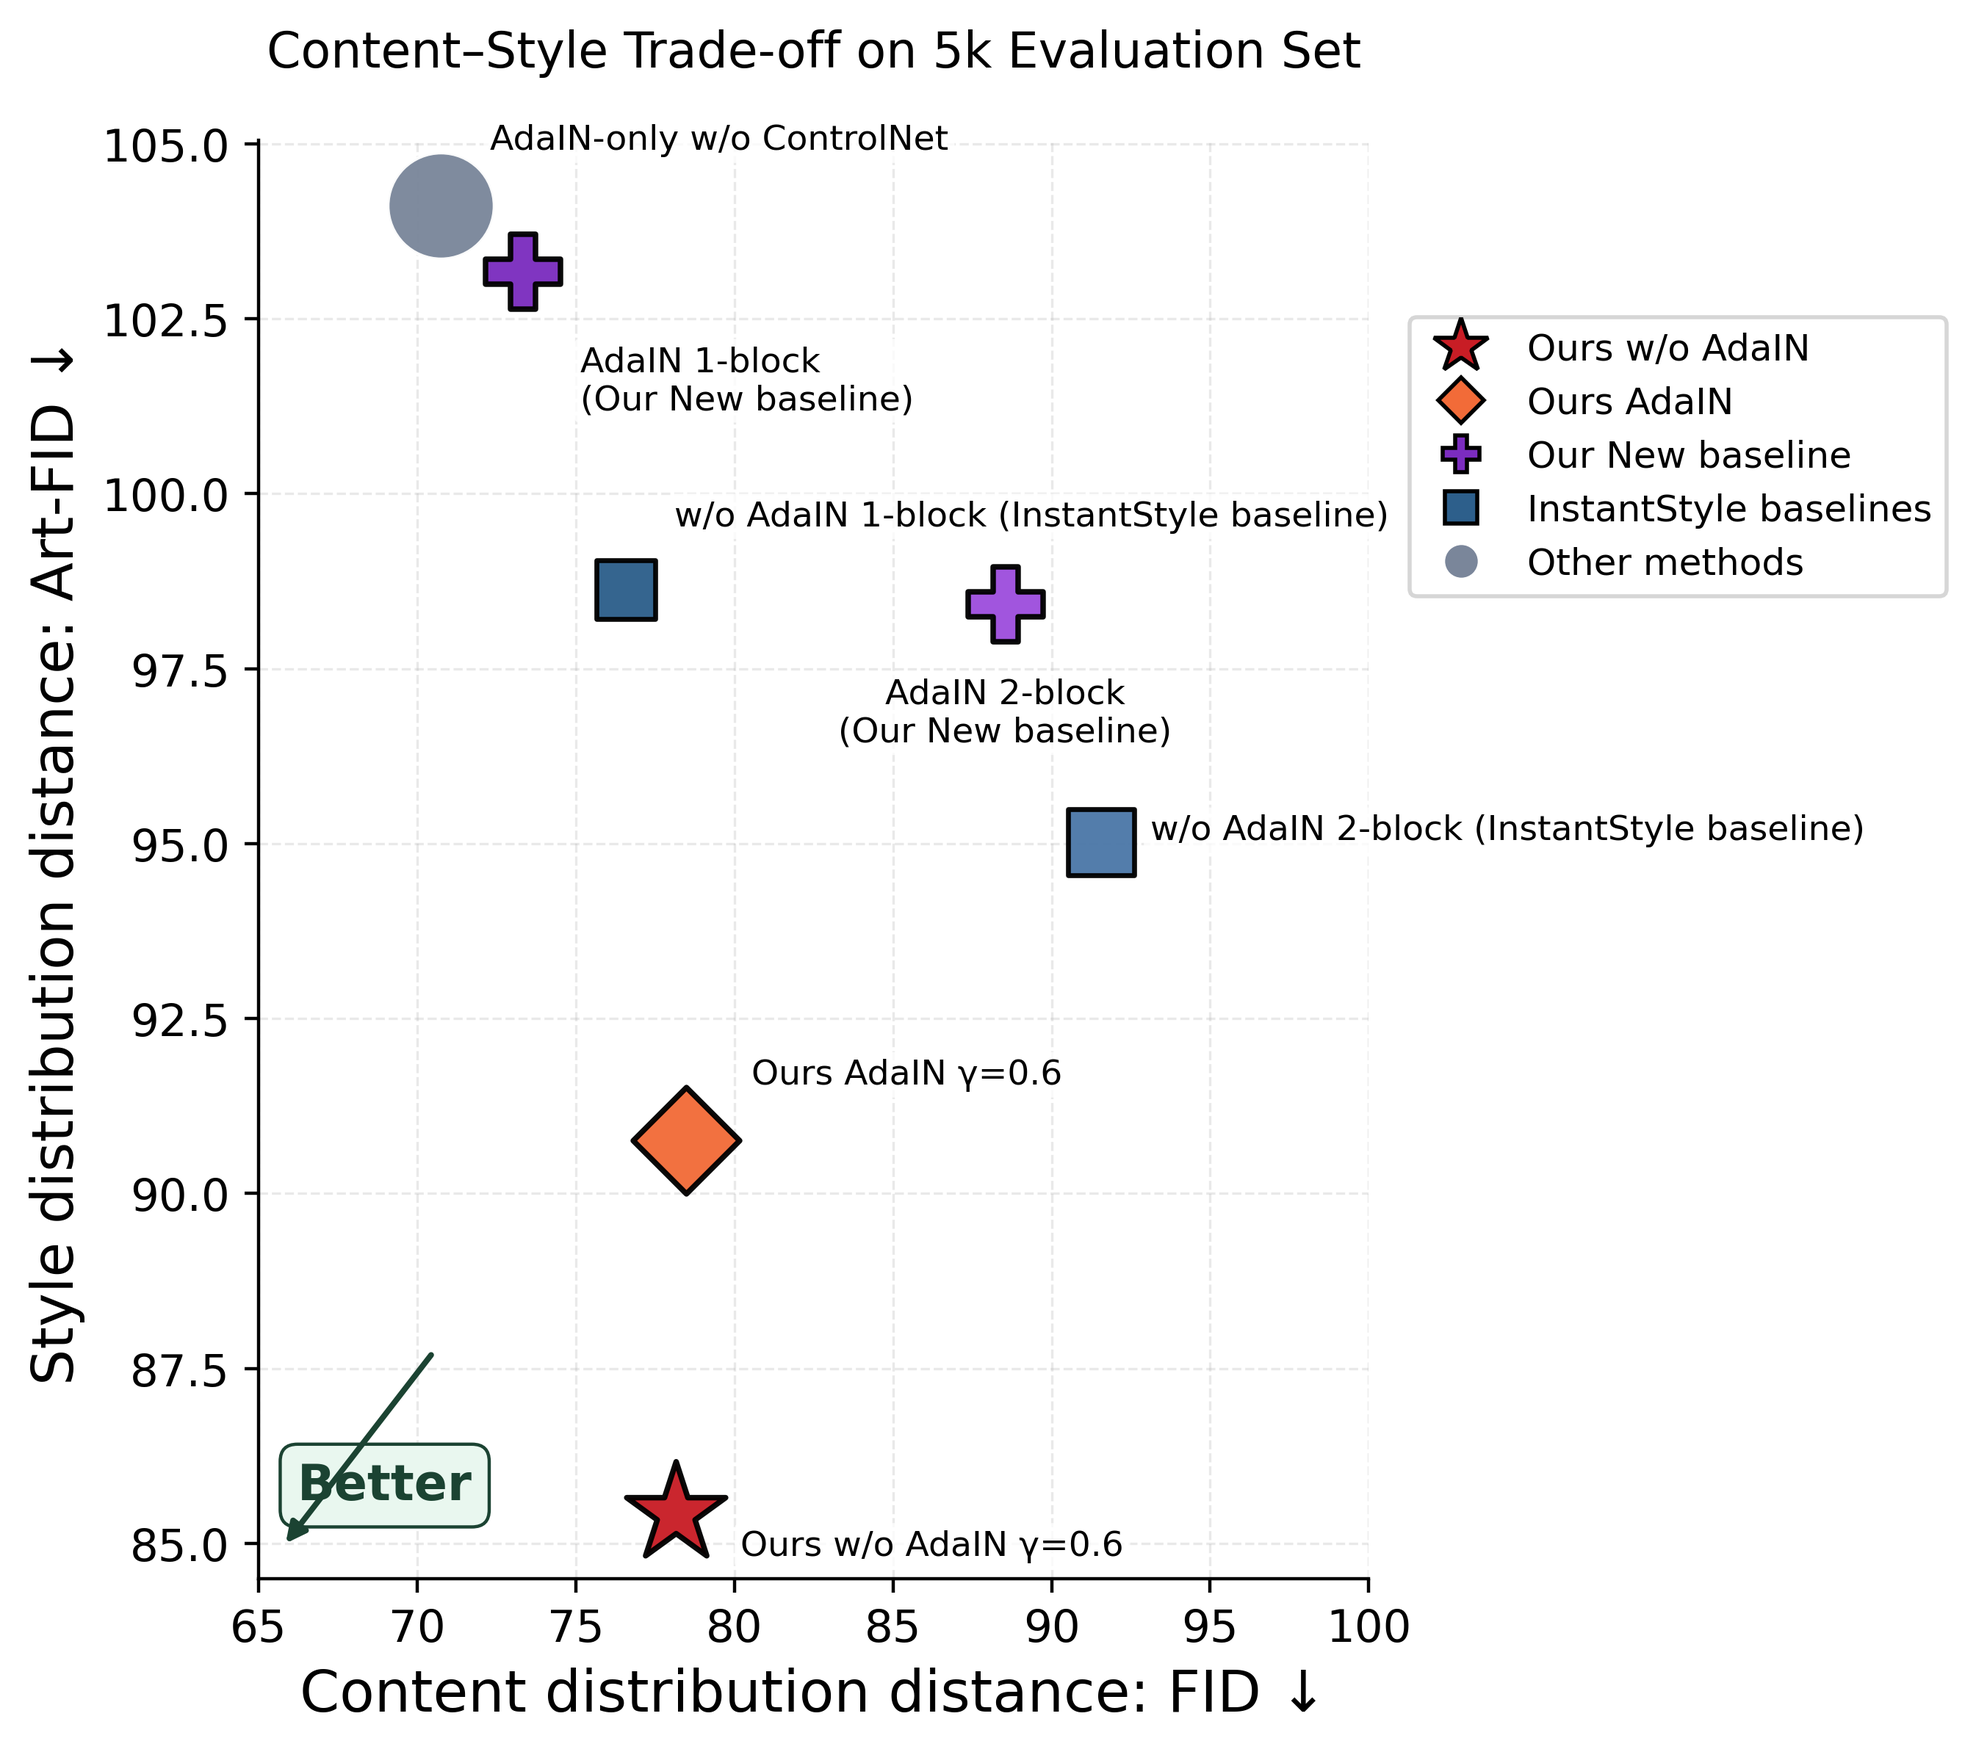
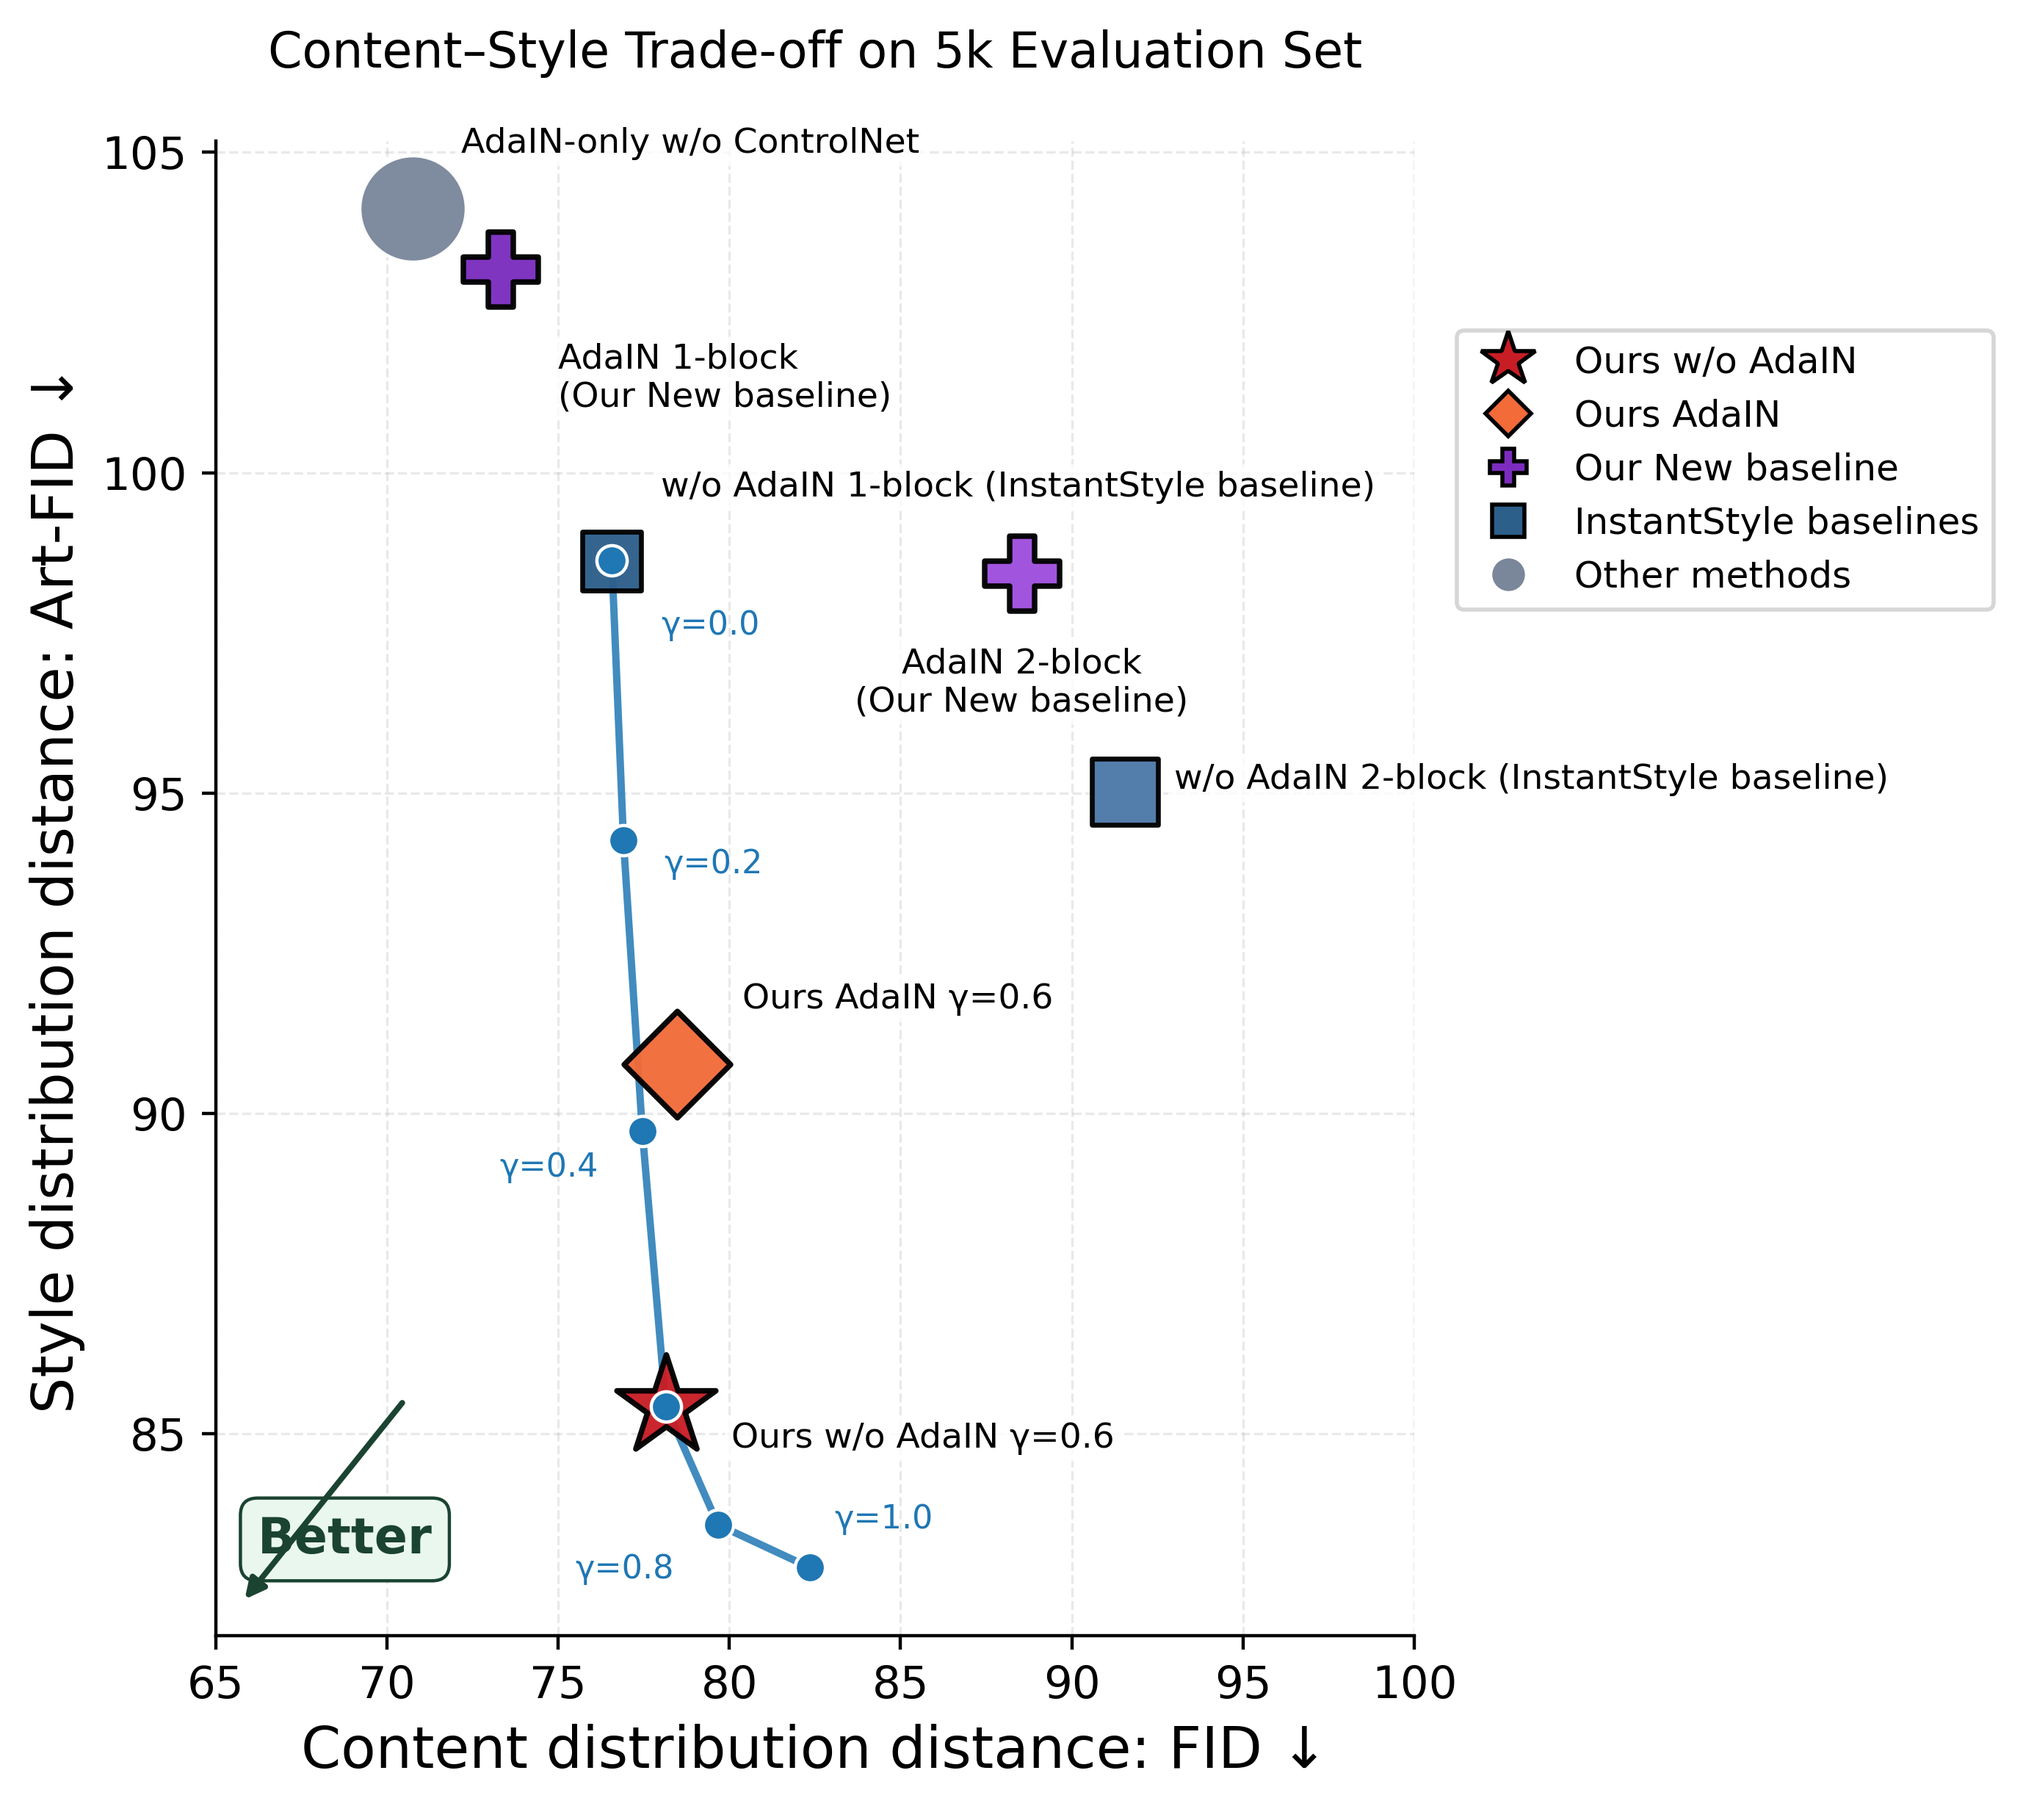
Add gamma sweep loading and visualization to plot_paper_figures.py
- Introduced a new function to load gamma sweep data from a JSON file.
- Updated the plot_tradeoff_scatter function to include gamma sweep points and annotations.
- Adjusted figure size for better presentation.
- Updated binary figures in the output directory.

diff --git a/contrast_test/indicators/eval_5000/plot_paper_figures.py b/contrast_test/indicators/eval_5000/plot_paper_figures.py
@@ -54,6 +54,12 @@ def load_results() -> List[Dict]:
     return payload["results"]
 
 
+def load_gamma_sweep() -> List[Dict]:
+    sweep_path = ROOT / "outs_proc05_adainfalse__different_gamma.json"
+    with sweep_path.open("r", encoding="utf-8") as f:
+        return json.load(f)
+
+
 def display_name(name: str) -> str:
     return DISPLAY_NAMES.get(name, name.replace("_", "\n"))
 
@@ -78,9 +84,10 @@ def save_fig(fig: plt.Figure, stem: str) -> None:
 
 
 def plot_tradeoff_scatter(results: List[Dict]) -> None:
-    fig, ax = plt.subplots(figsize=(8.6, 6.4))
+    fig, ax = plt.subplots(figsize=(8.8, 6.6))
     lpips_vals = np.array([r["lpips"] for r in results])
     sizes = 160 + (lpips_vals - lpips_vals.min()) / (np.ptp(lpips_vals) + 1e-8) * 520
+    gamma_sweep = sorted(load_gamma_sweep(), key=lambda r: float(r["name"].split("gamma")[-1]))
 
     for r, size in zip(results, sizes):
         is_ours = r["name"] == OURS_NAME
@@ -164,6 +171,34 @@ def plot_tradeoff_scatter(results: List[Dict]) -> None:
                 zorder=6,
                 bbox=dict(boxstyle="round,pad=0.18", fc="white", ec="none", alpha=0.78),
             )
+
+    gamma_x = [float(item["fid"]) for item in gamma_sweep]
+    gamma_y = [float(item["art_fid"]) for item in gamma_sweep]
+    ax.plot(gamma_x, gamma_y, color="#1F77B4", linewidth=1.8, alpha=0.85, zorder=4)
+    ax.scatter(gamma_x, gamma_y, s=55, color="#1F77B4", edgecolors="white", linewidths=0.8, zorder=5, label="γ sweep")
+    gamma_offsets = {
+        0.0: (12, -12),
+        0.2: (10, -2),
+        0.4: (-35, -5),
+        0.8: (-35, -7),
+        1.0: (6, 8),
+    }
+    for item in gamma_sweep:
+        gamma_val = float(item["name"].split("gamma")[-1])
+        gamma_key = round(gamma_val, 1)
+        if gamma_key == 0.6:
+            continue
+        ox, oy = gamma_offsets.get(gamma_key, (10, 8))
+        ax.annotate(
+            f"γ={gamma_val:.1f}",
+            (item["fid"], item["art_fid"]),
+            xytext=(ox, oy),
+            textcoords="offset points",
+            fontsize=8.0,
+            color="#1F77B4",
+            ha="left",
+            va="bottom" if oy >= 0 else "top",
+        )
 
     ax.set_xlabel("Content distribution distance: FID ↓", fontsize=14)
     ax.set_ylabel("Style distribution distance: Art-FID ↓", fontsize=14)
